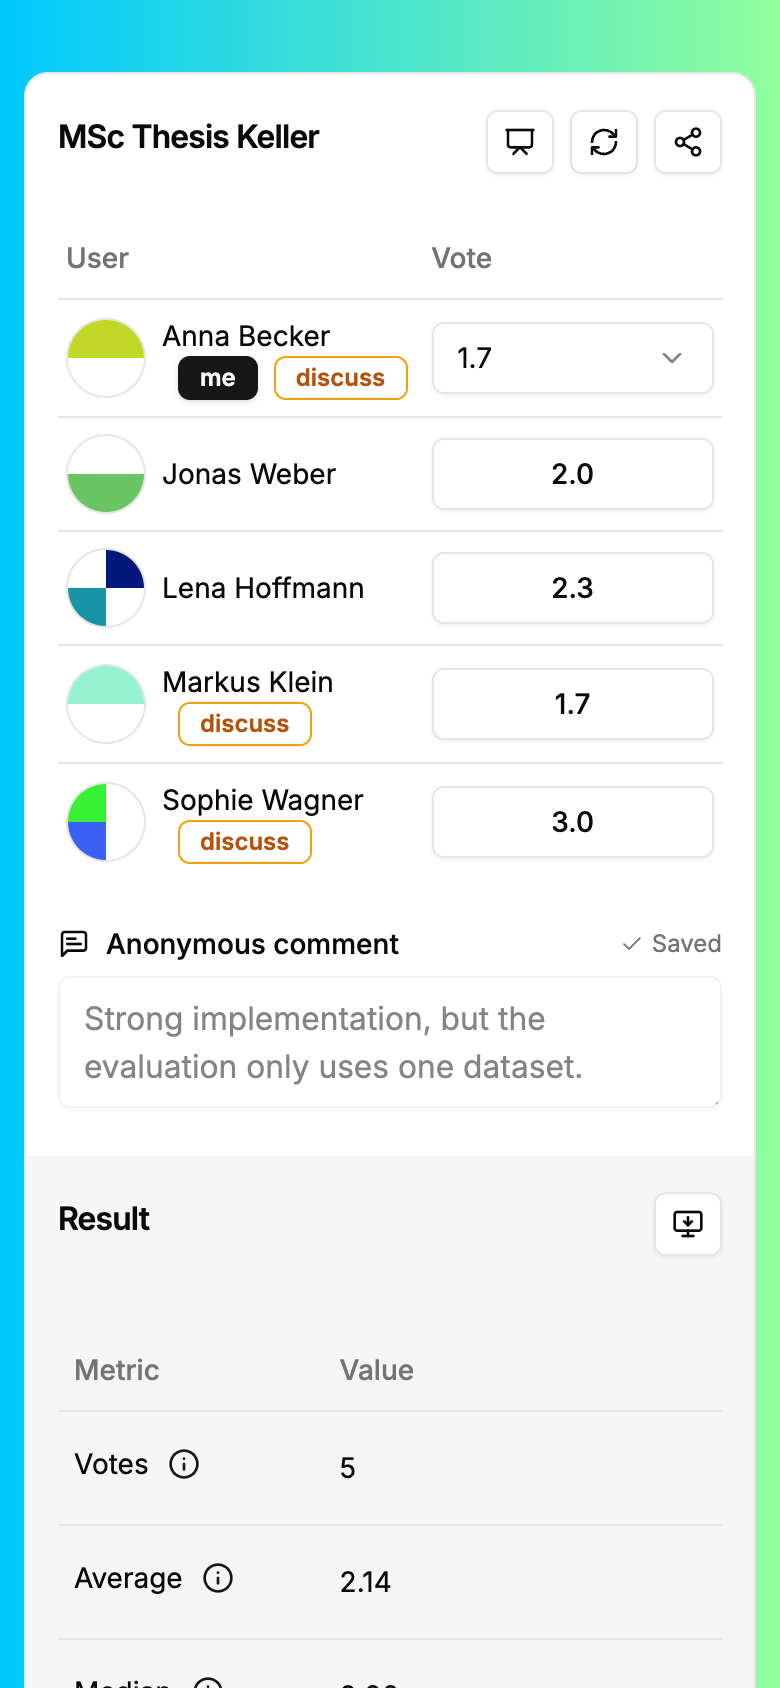
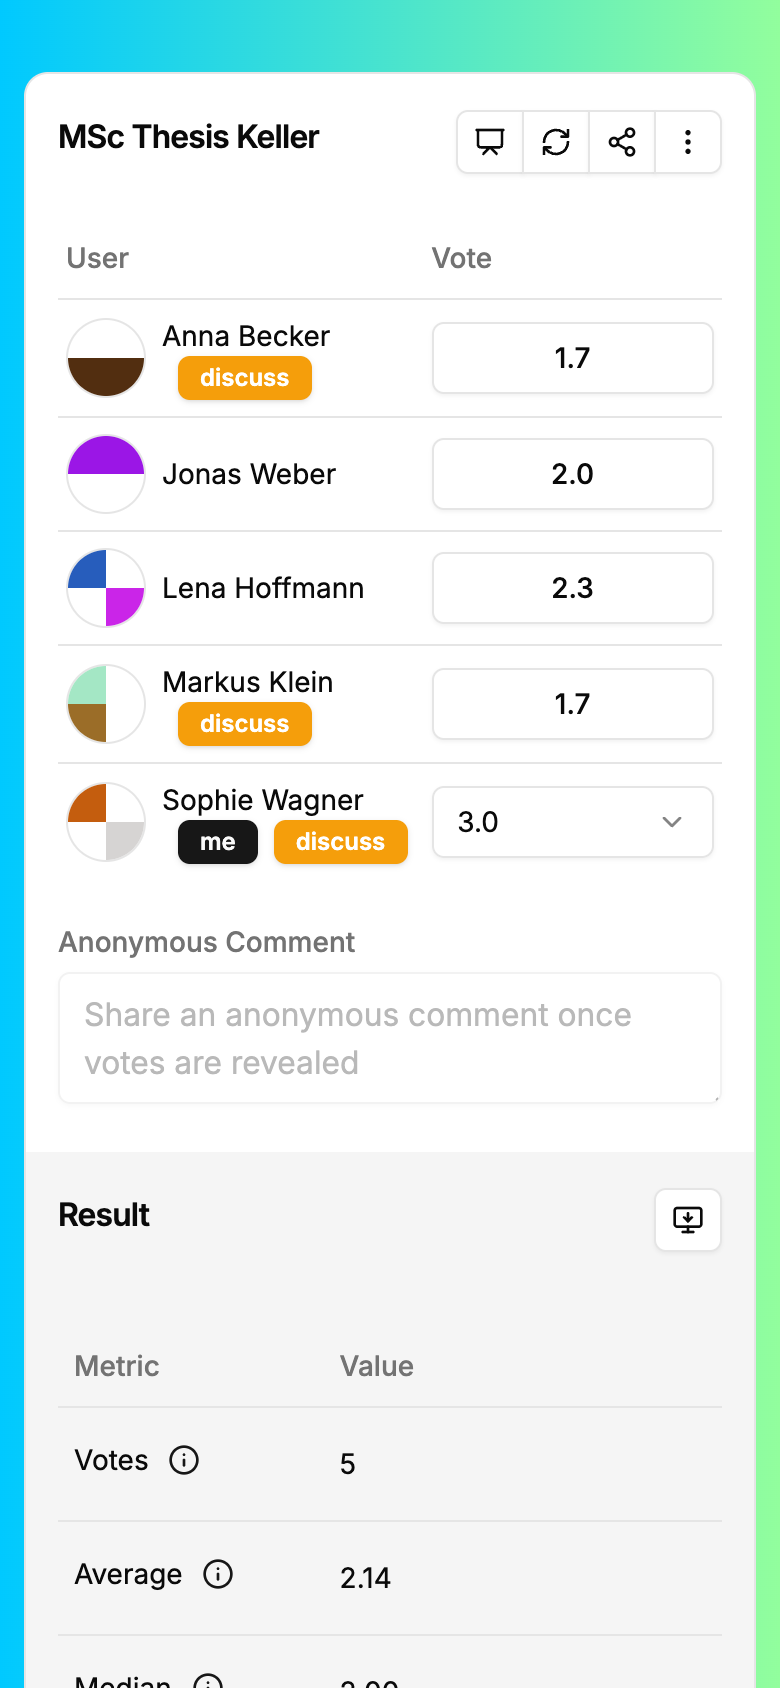
Document room access and the Redis keys, and update the screenshots (#65)
* Document that rooms have no password and how to keep them private

* Document the Redis keys of a room

* Update the README screenshots to the current room layout

diff --git a/README.md b/README.md
@@ -28,6 +28,9 @@ Planning poker for grading: examiners vote on a grade in secret, reveal all vote
 5. **Discuss:** the users with the most opposite votes get a **discuss** badge.
 6. **Next round:** the same button, now **Hide Votes**, hides them again.
 
+**Rooms have no password.** Anyone who knows the room name can join and see the users, the votes once they are revealed and the anonymous comments.
+So use a new room name for every grading, make it hard to guess (the generated names are easy to guess: there are only about 25,000 of them), share it only with the examiners, and close the room afterwards.
+
 
 ## Architecture
 
@@ -41,6 +44,22 @@ Planning poker for grading: examiners vote on a grade in secret, reveal all vote
 - **High availability:** every component runs replicated. If a backend fails, its users reconnect to another one and keep their seat. If a Redis node fails, its replica takes over.
 - **Persistence:** rooms are written to disk about once a second, so they survive restarts. If a Redis node fails, the changes of the last second can be lost.
 - **Scaling:** more backends serve more users, more Redis nodes hold more rooms.
+
+### Redis keys
+
+All state is in Redis; the backend keeps nothing else. A room `<name>` uses these keys:
+
+| Key                        | Type                   | Content                                                                                       |
+|----------------------------|------------------------|-----------------------------------------------------------------------------------------------|
+| `room:{<name>}`            | hash                   | `id` (new for every new room of that name), `version` (increases with every change), `hidden` (`1` or `0`), `seq` (counter for the join order) |
+| `room:{<name>}:users`      | hash                   | user name → JSON `{session, socket, seq, offline?}`; `offline` is the time (epoch seconds) the user lost the connection |
+| `room:{<name>}:votes`      | hash                   | user name → vote                                                                              |
+| `room:{<name>}:comments`   | hash                   | user name → comment; the author never leaves the backend                                      |
+| `room:{<name>}:events`     | sharded pub/sub channel | every change, as JSON with its new `version`; stores nothing                                 |
+
+- The braces are a hash tag: all keys of a room are in the same slot of the Redis Cluster, so one script can change them together.
+- Every change resets the expiry of the four hashes to `STOETZMS_GRADING_POKER_ROOM_TTL`, so a room without changes is deleted by Redis itself.
+- Closing a room deletes its four hashes.
 
 
 ## Dev 
